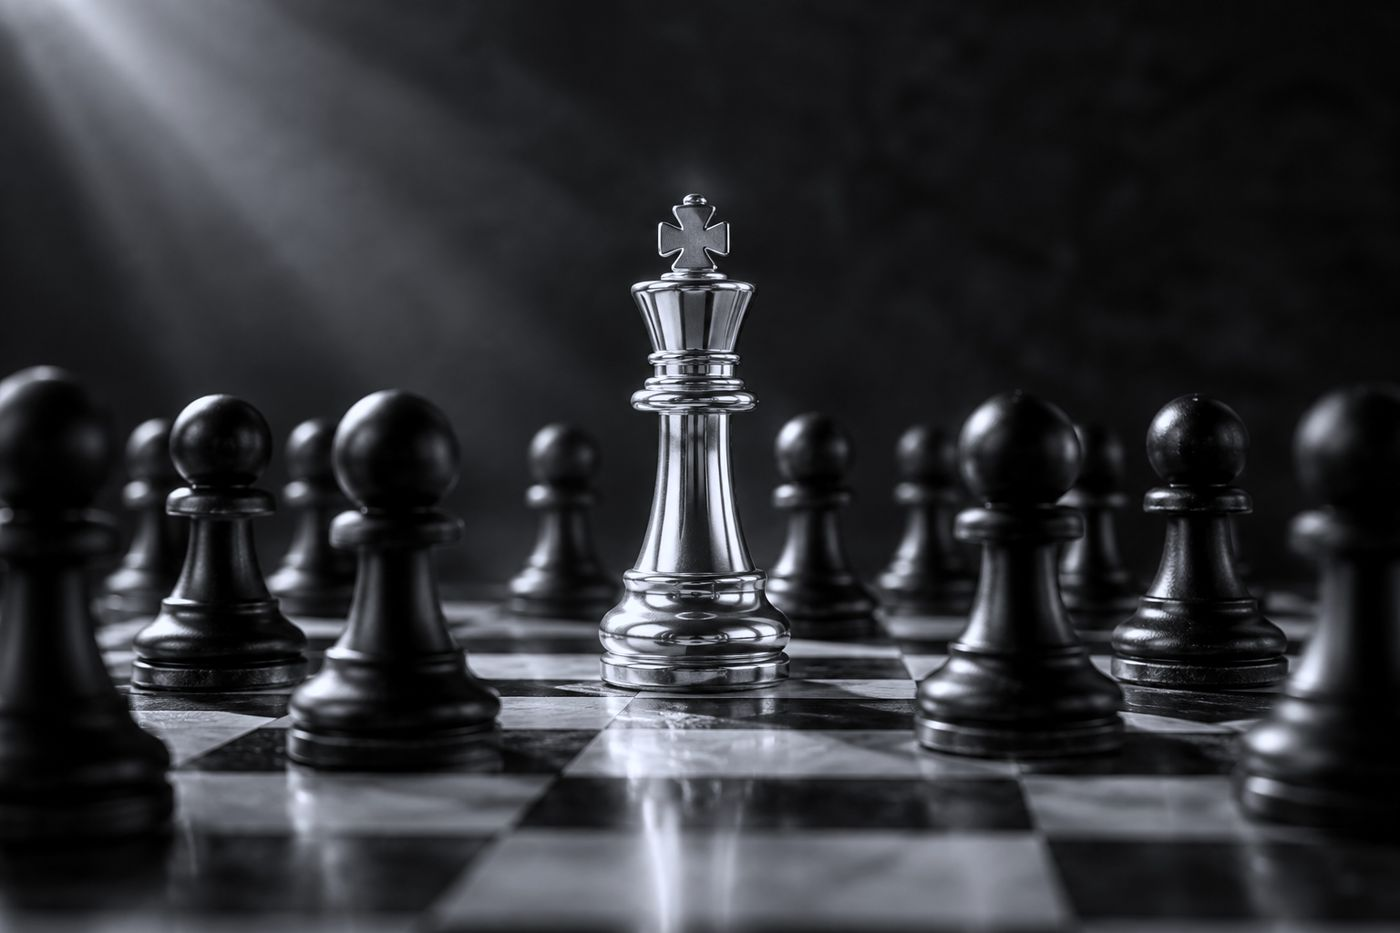
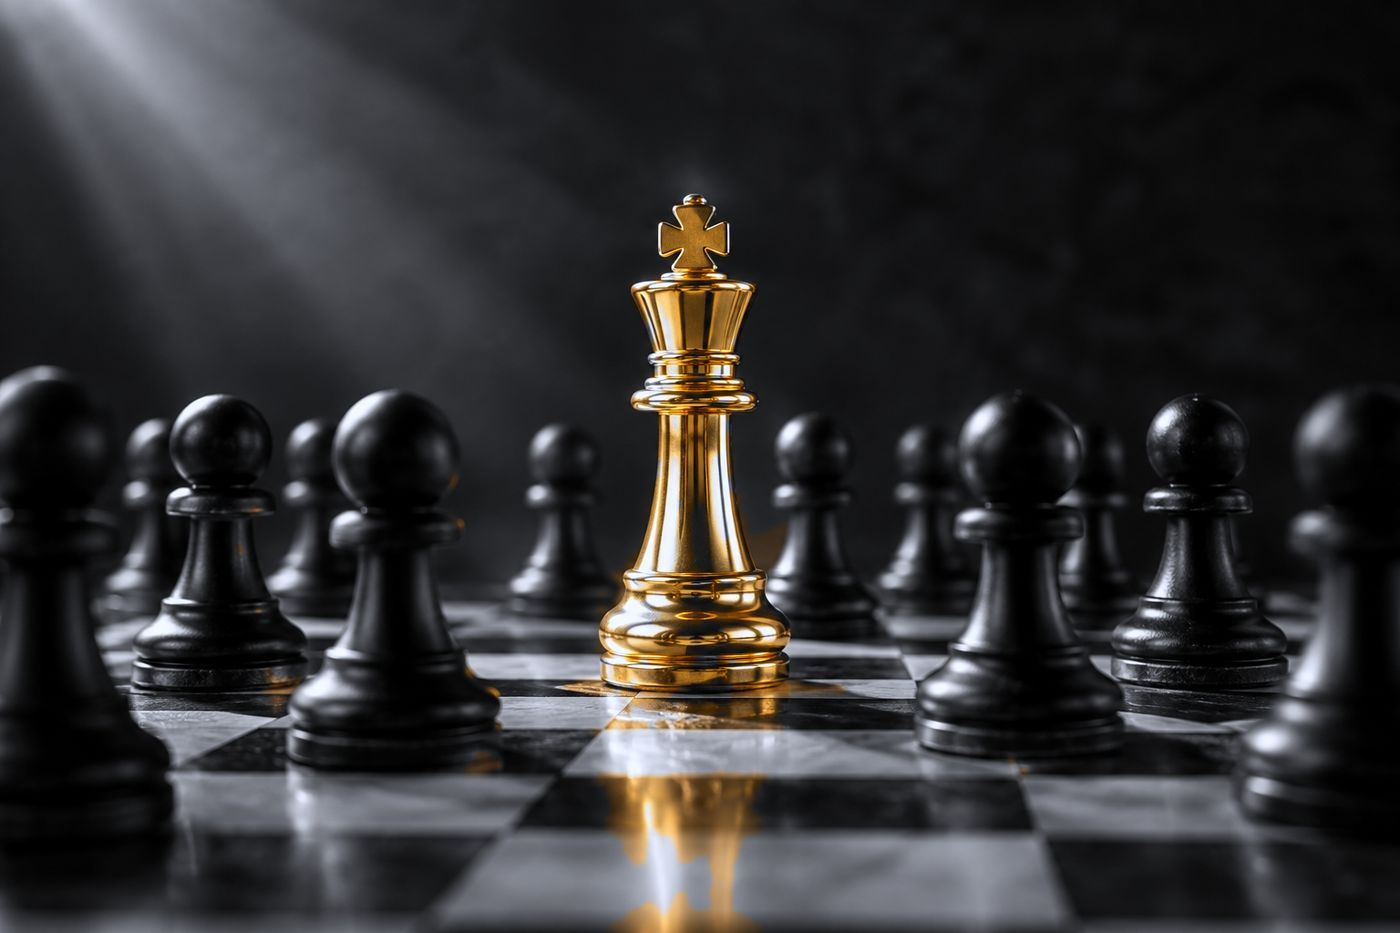
Persistent masthead, real wordmark, gold king, new portrait
- The masthead moves from the hero into the layout as a fixed <header>, so
  the identity stays with the reader for the whole scroll and appears on
  /studio too. A soft scrim from the ground colour sits behind it: a fixed
  mark over scrolling text collides without one.
- The wordmark was set in Jost, which is close to the logo's face but is not
  it. It is now the real wordmark, cropped from the artwork at its measured
  band (rows 586-631) and keyed out the same way as the monogram.
- The chess frame keeps the king's gold. Hue could not separate king from
  pawns — both sit at hue 23 — so the mask keys on saturation and value
  instead (king 124/61 against pawns 51/26), then opens and feathers to drop
  stray speculars. Gold survives on 4.97% of the frame: the king and its
  reflection. It is now the only colour anywhere on the site.
- Meenakshi's portrait replaced with the second frame, exposure-matched to
  the same mean of 80 as Dhivya's so the pair still reads as one set.

Changed region(s): [[0.3993, 0.2176, 0.5836, 1.0], [0.1843, 0.7149, 0.215, 0.746]]

diff --git a/app/globals.css b/app/globals.css
@@ -655,32 +655,50 @@ html.lenis, html.lenis body { height: auto; }
 }
 
 /* ── Masthead ───────────────────────────────────────────────────────
-   Type-set stand-in for the AB lockup until the vector lands. Metrics
-   follow the logo: high-contrast serif monogram over a light geometric
-   sans at wide tracking. */
+   Fixed, so the identity stays with the reader for the whole scroll.
+   Both marks are the supplied artwork, keyed out of their black ground. */
 .masthead {
-  position: absolute;
-  top: clamp(24px, 5vh, 52px);
+  position: fixed;
+  top: clamp(20px, 3.4vh, 40px);
   left: clamp(24px, 6vw, 88px);
+  z-index: 50;
   margin: 0;
   display: flex;
-  align-items: baseline;
-  gap: 14px;
+  align-items: center;
+  gap: clamp(10px, 1.4vw, 18px);
+  pointer-events: none;
   animation: fade-up 600ms var(--ease-out) backwards;
   animation-delay: 300ms;
 }
 .masthead__mark {
   display: block;
-  height: clamp(20px, 2.2vw, 26px);
+  height: clamp(19px, 2.1vw, 25px);
   width: auto;
 }
 .masthead__word {
-  font-size: 0.625rem;
-  font-weight: 400;
-  letter-spacing: 0.34em;
-  text-transform: uppercase;
-  color: var(--cool-mid);
+  display: block;
+  height: clamp(7px, 0.78vw, 9px);
+  width: auto;
+  opacity: 0.78;
 }
+/* A fixed mark over scrolling text needs separation or the two collide.
+   A soft scrim from the ground colour keeps the lockup legible without
+   putting a bar across the top of a page that shouldn't have one. */
+.masthead::before {
+  content: "";
+  position: fixed;
+  inset: 0 0 auto 0;
+  height: clamp(88px, 13vh, 132px);
+  z-index: -1;
+  pointer-events: none;
+  background: linear-gradient(
+    to bottom,
+    var(--ground) 0%,
+    color-mix(in srgb, var(--ground) 72%, transparent) 46%,
+    transparent 100%
+  );
+}
+
 @media (prefers-reduced-motion: reduce) { .masthead { animation: none; } }
 
 /* ── S2 · The photograph ────────────────────────────────────────── */

diff --git a/components/Hero.tsx b/components/Hero.tsx
@@ -3,7 +3,6 @@
 import dynamic from "next/dynamic";
 import { useEffect, useState } from "react";
 import HeroStill from "./HeroStill";
-import { asset } from "@/lib/site";
 
 /** three.js lives entirely behind this import and nowhere else. */
 const PointField = dynamic(() => import("./PointField"), { ssr: false });
@@ -36,14 +35,6 @@ export default function Hero() {
     <section className="hero" aria-labelledby="hero-title">
       {scene === "gl" && <PointField />}
       {scene === "still" && <HeroStill />}
-
-      {/* The real AB monogram, keyed out of the supplied artwork. The
-          wordmark stays live text: it matches the logo's face closely, stays
-          crisp at any size, and is selectable and readable to a screen reader. */}
-      <p className="masthead">
-        <img className="masthead__mark" src={asset("/logo-mark.png")} width={240} height={163} alt="" />
-        <span className="masthead__word">Brand Atelier</span>
-      </p>
 
       <div className="hero__inner">
         <p className="hero__eyebrow">Discover Your Position</p>

diff --git a/components/Masthead.tsx b/components/Masthead.tsx
@@ -1,0 +1,15 @@
+import { asset } from "@/lib/site";
+
+/**
+ * Site identity, fixed so it stays with the reader the whole way down rather
+ * than scrolling away with the hero. Both marks come straight from the supplied
+ * artwork — the wordmark is the real one, not a typeset approximation.
+ */
+export default function Masthead() {
+  return (
+    <header className="masthead">
+      <img className="masthead__mark" src={asset("/logo-mark.png")} alt="" aria-hidden="true" />
+      <img className="masthead__word" src={asset("/logo-wordmark.png")} alt="Brand Atelier" />
+    </header>
+  );
+}

diff --git a/app/layout.tsx b/app/layout.tsx
@@ -1,6 +1,7 @@
 import type { Metadata, Viewport } from "next";
 import { Bodoni_Moda, Jost } from "next/font/google";
 import { site } from "@/lib/site";
+import Masthead from "@/components/Masthead";
 import "./globals.css";
 
 const bodoni = Bodoni_Moda({
@@ -68,6 +69,7 @@ export default function RootLayout({ children }: { children: React.ReactNode }) 
   return (
     <html lang="en" className={`${bodoni.variable} ${jost.variable}`}>
       <body>
+        <Masthead />
         {children}
         <script
           type="application/ld+json"
